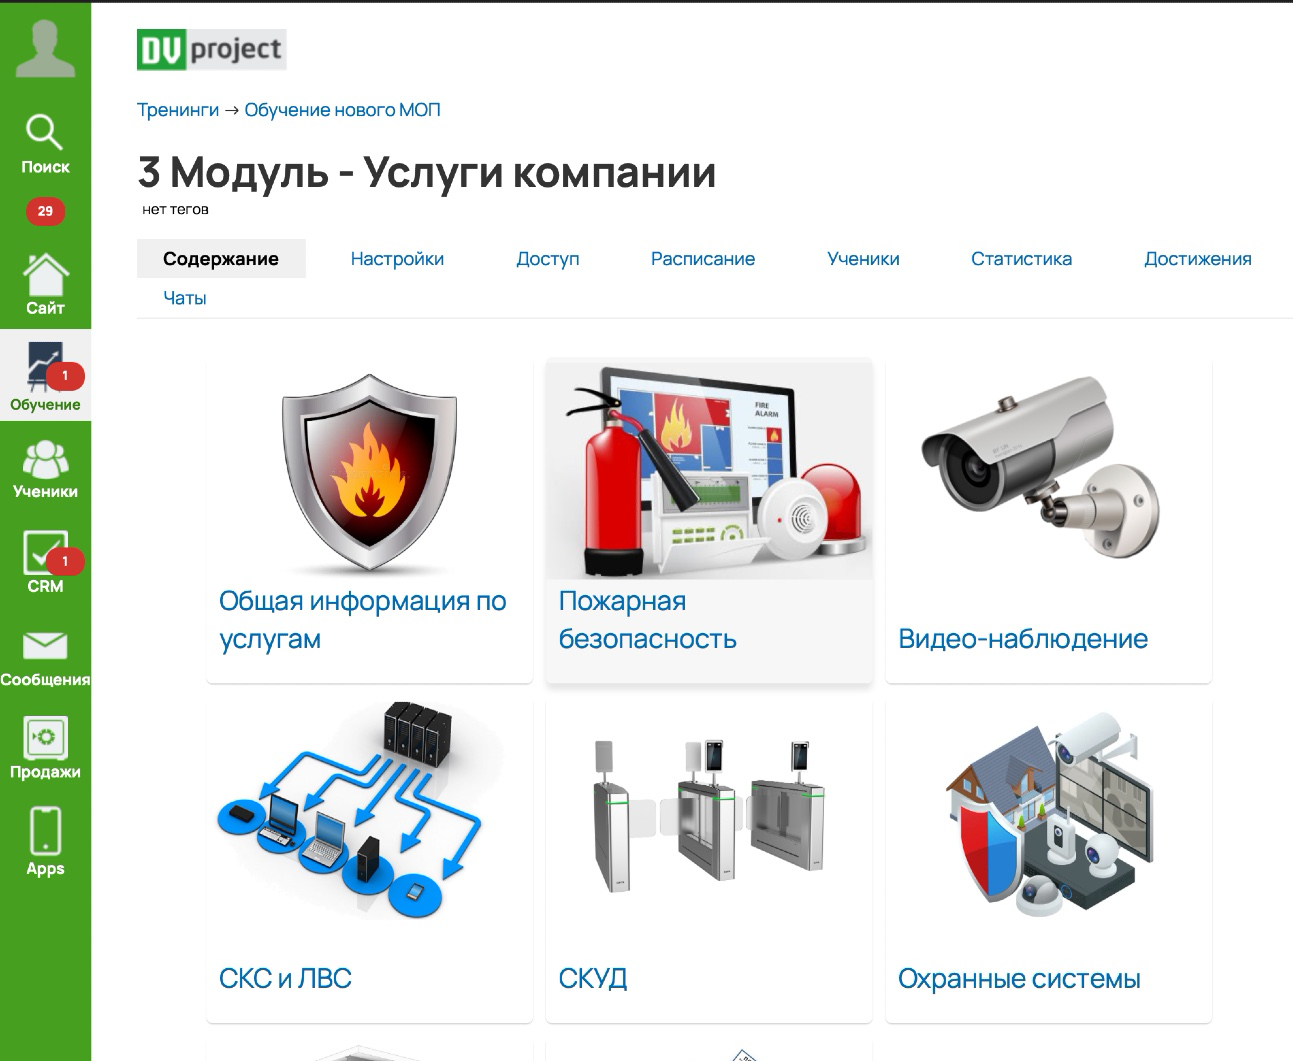
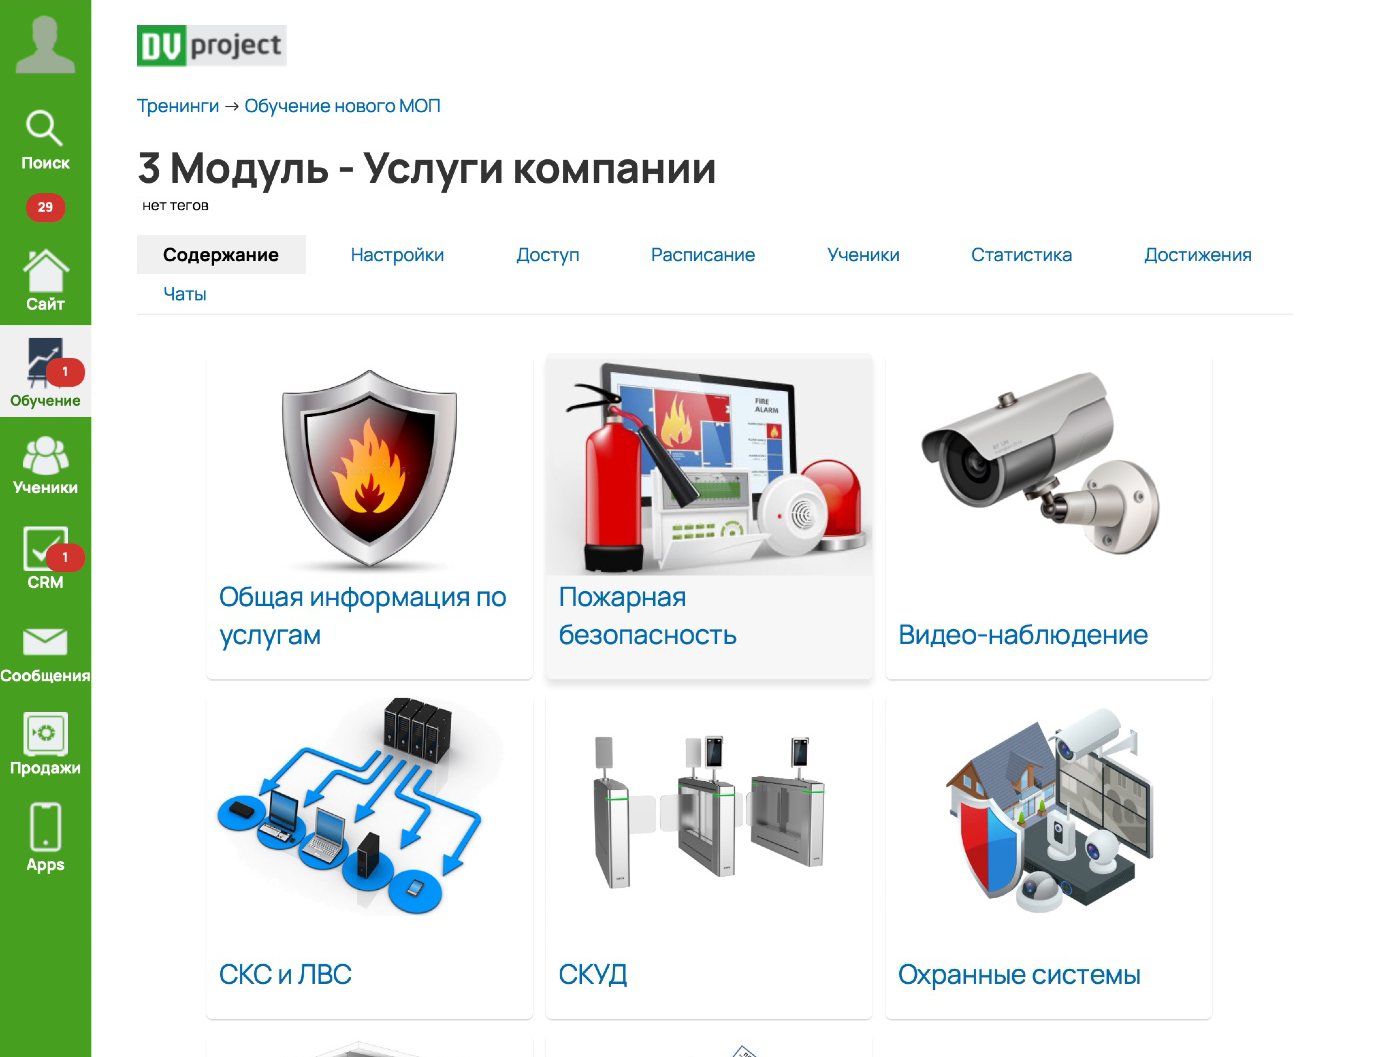
deploy 20260609-164917

diff --git a/index.html b/index.html
@@ -123,11 +123,10 @@
   .dig:hover .dig-arrow{ background:#FFD04A; box-shadow:0 0 0 4px rgba(247,181,0,.25); }
   /* академия — слайдер на белом, без рамки (картинки одного размера → не прыгает) */
   .slider-wrap{ position:absolute; left:810px; top:50%; transform:translateY(-50%); width:1010px;
-    display:flex; flex-direction:column; background:#fff; border:1px solid var(--line); border-radius:16px;
-    overflow:hidden; box-shadow:0 22px 48px -30px rgba(13,23,48,.32); }
-  /* плашка-«шапка»: примыкает к скрину, единая конструкция (скругление сверху, скрин снизу) */
-  .slider-cap{ background:#F6F8FA; padding:18px 24px; font-size:23px; line-height:1.4; color:var(--body);
-    border-bottom:1px solid var(--line); }
+    display:flex; flex-direction:column; background:#fff; border:1px solid var(--line); border-top:3px solid var(--accent);
+    border-radius:16px; overflow:hidden; box-shadow:0 22px 48px -30px rgba(13,23,48,.32); }
+  /* плашка-«шапка»: примыкает к скрину, единая конструкция (синяя линия сверху — как блок на сл.1) */
+  .slider-cap{ background:#F6F8FA; padding:18px 24px; font-size:23px; line-height:1.4; color:var(--body); }
   .slider-cap b{ color:var(--ink); font-weight:700; }
   .slider{ position:relative; width:100%; aspect-ratio:1700 / 1307; }
   .slide{ position:absolute; inset:0; width:100%; height:100%; object-fit:contain; opacity:0;
@@ -188,10 +187,9 @@
   #s4 .body{ max-width:810px; margin-top:30px; }
   /* реальная таблица ТО — слева, единая карта: заголовок примыкает к скрину */
   .to-art{ position:absolute; left:100px; top:50%; transform:translateY(-50%); width:850px;
-    display:flex; flex-direction:column; background:#fff; border:1px solid var(--line); border-radius:16px;
-    overflow:hidden; box-shadow:0 22px 48px -30px rgba(13,23,48,.32); }
-  .to-cap{ background:#F6F8FA; padding:18px 24px; font-size:23px; line-height:1.4; color:var(--body);
-    border-bottom:1px solid var(--line); }
+    display:flex; flex-direction:column; background:#fff; border:1px solid var(--line); border-top:3px solid var(--accent);
+    border-radius:16px; overflow:hidden; box-shadow:0 22px 48px -30px rgba(13,23,48,.32); }
+  .to-cap{ background:#F6F8FA; padding:18px 24px; font-size:23px; line-height:1.4; color:var(--body); }
   .to-cap b{ color:var(--ink); font-weight:700; }
   .to-frame{ display:block; }
   .to-frame img{ display:block; width:100%; height:auto; }
@@ -221,10 +219,9 @@
     font-weight:700; font-size:25px; line-height:1.34; color:var(--ink); letter-spacing:-.01em; }
   .quote span{ color:var(--amber); }
   .fin-art{ position:absolute; left:900px; top:50%; transform:translateY(-50%); width:915px;
-    display:flex; flex-direction:column; background:#fff; border:1px solid var(--line); border-radius:16px;
-    overflow:hidden; box-shadow:0 22px 48px -30px rgba(13,23,48,.32); }
-  .fin-cap{ background:#F6F8FA; padding:18px 24px; font-size:23px; line-height:1.4; color:var(--body);
-    border-bottom:1px solid var(--line); }
+    display:flex; flex-direction:column; background:#fff; border:1px solid var(--line); border-top:3px solid var(--accent);
+    border-radius:16px; overflow:hidden; box-shadow:0 22px 48px -30px rgba(13,23,48,.32); }
+  .fin-cap{ background:#F6F8FA; padding:18px 24px; font-size:23px; line-height:1.4; color:var(--body); }
   .fin-cap b{ color:var(--ink); font-weight:700; }
   .fin-frame{ display:block; }
   .fin-frame img{ display:block; width:100%; height:auto; }
@@ -698,6 +695,6 @@
     viewer && viewer.querySelector('[data-vclose]').addEventListener('click', closeViewer);
     document.addEventListener('keydown', e=>{ if(e.key==='Escape'){ closeModals(); viewer && viewer.classList.remove('open'); document.body.style.overflow=''; } });
   </script>
-  <!-- build 20260609-163152 -->
+  <!-- build 20260609-164917 -->
 </body>
 </html>